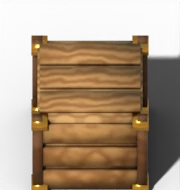
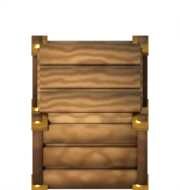
Crate Craze: the crate's cast shadow lies on the floor layer
The rendered crate had its shadow baked in and is depth-sorted at its
footprint, so the shadow fell across players standing behind it. The
crate and its shadow are now rendered separately; the shadow is drawn
on the floor beneath everyone (the part under the crate is cut away so
the landing squash never uncovers it).

Claude-Session: https://claude.ai/code/session_01SaCmMRmT6ous3ZUywnLqEj

Changed region(s): [[0.8056, 0.2632, 1.0, 1.0], [0.0833, 0.5526, 0.1944, 1.0], [0.25, 0.9737, 0.75, 1.0]]

diff --git a/src/game/minigames/games/CrateCraze.ts b/src/game/minigames/games/CrateCraze.ts
@@ -3,7 +3,7 @@ import { audio } from '../../audio/AudioManager';
 import { Character } from '../../characters/Character';
 import { CSS, GAME_WIDTH, PLAYER_COLORS, PLAYER_COLORS_CSS, PLAYER_SHAPES } from '../../constants';
 import { CHARACTERS } from '../../data/characters';
-import { npcFrame, type NpcId } from '../../data/npcs';
+import { NPC_ATLAS, npcFrame, type NpcId } from '../../data/npcs';
 import type { VirtualControls } from '../../input/PlayerInput';
 import { drawPlayerShape } from '../../ui/PlayerBadge';
 import { addText } from '../../ui/theme';
@@ -269,8 +269,8 @@ export class CrateCrazeScene extends BaseMinigame {
     CROWD_X.forEach((x, i) => {
       const [id, pose] = folk[i % folk.length];
       const y = CROWD_Y - (i % 2) * 6;
-      const spr = this.add.sprite(x, y, 'npcs', npcFrame(id, pose));
-      const o = standOrigin('npcs', npcFrame(id, pose));
+      const spr = this.add.sprite(x, y, NPC_ATLAS, npcFrame(id, pose));
+      const o = standOrigin(NPC_ATLAS, npcFrame(id, pose));
       spr.setOrigin(o.x, o.y).setScale(0.4).setDepth(FLOOR.y - 20 + i * 0.01).setFlipX(x > GAME_WIDTH / 2);
       this.tweens.add({ targets: spr, y: y - 7, duration: 400 + (i % 3) * 90, yoyo: true, repeat: -1, ease: 'Sine.InOut', delay: i * 60 });
       this.crowd.push(spr);
@@ -399,7 +399,12 @@ export class CrateCrazeScene extends BaseMinigame {
     if (this.renderedCrate && gold && !goldArt) sprite.setTint(0xffd45a);
     const aura = this.add.image(0, 0, art).setOrigin(meta.x, meta.y).setScale(scale).setBlendMode(Phaser.BlendModes.ADD).setAlpha(0).setVisible(false);
     const glow = this.add.image(0, 0, 'fx-dot').setScale((CRATE * 2.3) / 24, (CRATE * DEPTH_K * 2.3) / 24).setBlendMode(Phaser.BlendModes.ADD).setAlpha(0).setVisible(false);
-    const shadow = this.renderedCrate ? null : this.add.image(0, 0, 'cc-crate-shadow').setAlpha(0.85);
+    // The cast shadow is a separate floor-layer sprite so it never falls across players behind the crate.
+    const shadow = !this.renderedCrate
+      ? this.add.image(0, 0, 'cc-crate-shadow').setAlpha(0.85)
+      : this.textures.exists('rendered-mg-crate-shadow')
+        ? this.add.image(0, 0, 'rendered-mg-crate-shadow').setOrigin(meta.x, meta.y).setScale(scale)
+        : null;
     const twinkle = gold ? this.add.image(0, 0, 'fx-dot').setBlendMode(Phaser.BlendModes.ADD).setTint(0xfff4c0).setAlpha(0) : null;
     const k: Crate = {
       id: this.nextId++,
@@ -450,7 +455,8 @@ export class CrateCrazeScene extends BaseMinigame {
     k.sprite.setPosition(sx, sy - k.z).setDepth(sy + 0.5);
     k.aura.setPosition(sx, sy - k.z).setDepth(sy + 0.6);
     k.glow.setPosition(sx, sy).setDepth(5);
-    k.shadow?.setPosition(sx + 12, sy - 3).setDepth(5.5);
+    if (this.renderedCrate) k.shadow?.setPosition(sx, sy).setDepth(5.5);
+    else k.shadow?.setPosition(sx + 12, sy - 3).setDepth(5.5);
     if (k.twinkle) k.twinkle.setDepth(sy + 0.7);
   }
 

diff --git a/scripts/art/mg_arenas.py b/scripts/art/mg_arenas.py
@@ -742,8 +742,28 @@ def spr_crate(meta, gold=False):
         v = lib.transform(v, loc=(c.x, c.y - s / 2 - 0.05, s / 2), rot=(math.pi / 2, 0.0, 0.0))
         P.b['glow'].add(v, f, col('#5ce1ff'))
     P.build()
-    shadow_floor(bx, by)
-    render_sprite('crate_gold' if gold else 'crate', (bx - 90, by - 150, 180, 190), bx, by, meta)
+    floor = shadow_floor(bx, by)
+    region = (bx - 90, by - 150, 180, 190)
+    # The crate on its own (the floor still bounces light onto it but is not seen): the game draws the
+    # crate at the depth of its footprint, so a baked-in shadow would fall across players behind it.
+    floor.visible_camera = False
+    render_sprite('crate_gold' if gold else 'crate', region, bx, by, meta)
+    if not gold:
+        # ...and its cast shadow alone, which the game lays on the floor beneath everyone
+        floor.visible_camera = True
+        for ob in bpy.data.objects:
+            if ob.type == 'MESH' and ob is not floor:
+                ob.visible_camera = False
+        render_sprite('crate_shadow', region, bx, by, meta)
+        # drop the part hidden under the crate (a solid black footprint that its squash would uncover);
+        # a 2 px margin keeps the shadow beneath the crate's soft edges
+        crate = Image.open(os.path.join(OUT, 'crate.png')).convert('RGBA').getchannel('A').filter(ImageFilter.MinFilter(5))
+        sh = Image.open(os.path.join(OUT, 'crate_shadow.png')).convert('RGBA')
+        a = np.asarray(sh.getchannel('A')).astype(np.float32) * (1.0 - np.asarray(crate).astype(np.float32) / 255.0)
+        sh.putalpha(Image.fromarray(a.astype(np.uint8)))
+        sh.save(os.path.join(OUT, 'crate_shadow.png'))
+        if not A.preview:
+            sh.save(os.path.join(PUB, 'mg', 'crate_shadow.webp'), 'WEBP', quality=92, method=6)
 
 
 def spr_pad(meta):
